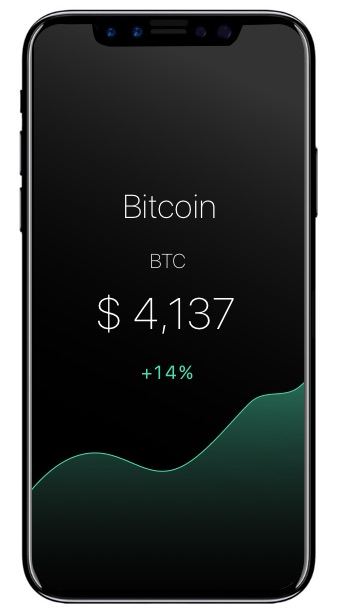
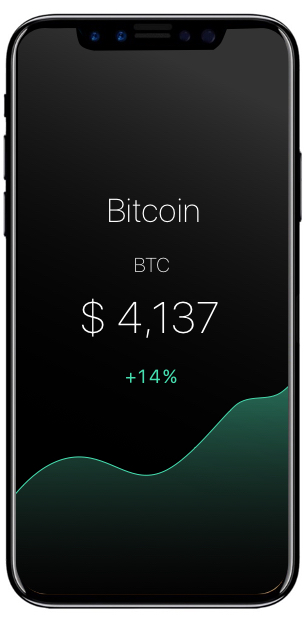
iPhone

diff --git a/robinhood copy.html b/robinhood copy.html
@@ -244,58 +244,33 @@ Cryptocurrency Price Tracker
 <div class="mtl"></div>
 
 
-      <a
-        class="fancybox lead header-link"
-        href="https://vimeo.com/87163777"
-        id="watch_video"
-        target="_blank"
-        rel="noreferrer">
-        <img
-          alt="Robinhood video play button"
-          id="play_button"
-          src="https://d2ue93q3u507c2.cloudfront.net/assets/marketing/images/home/play_button.png"
-          data-at2x="https://d2ue93q3u507c2.cloudfront.net/assets/marketing/images/home/play_button%402x.png"
-        >
-        Watch Video
-      </a>
-
-    </div>
 
     <div class="col-md-4 col-md-push-1">
       
       <img
         alt="Robinhood app"
         class="animation-placeholder downscale-fit mbs hidden"
-        src="https://d2ue93q3u507c2.cloudfront.net/assets/marketing/images/home/home_animation_placeholder.png"
-        data-at2x="https://d2ue93q3u507c2.cloudfront.net/assets/marketing/images/home/home_animation_placeholder%402x.png"
+        src="http://cryptonapp.tech/assets/iphone8.jpg"
+        data-at2x="http://cryptonapp.tech/assets/iphone8.jpg"
       >
       <div class="animation-container mbs">
         <div class="home-animation" id="home_animation_light">
           <img
             alt="iPhone frame"
             class="animation-frame"
-            src="https://d2ue93q3u507c2.cloudfront.net/assets/marketing/images/home/phone_frame_light.png"
-            data-at2x="https://d2ue93q3u507c2.cloudfront.net/assets/marketing/images/home/phone_frame_light%402x.png"
+            src="http://cryptonapp.tech/assets/iphone8.jpg"
+            data-at2x="http://cryptonapp.tech/assets/iphone8.jpg"
           >
-          <video autoplay="1" class="animation-video" id="home_animation_video_light" preload="1">
-            <source src="https://d2ue93q3u507c2.cloudfront.net/assets/marketing/video/home/home_animation_light.mp4">
-            <source src="https://d2ue93q3u507c2.cloudfront.net/assets/marketing/video/home/home_animation_light.webm">
-            <source src="https://d2ue93q3u507c2.cloudfront.net/assets/marketing/video/home/home_animation_light.ogv">
-          </video>
+
         </div>
-        <div class="home-animation" id="home_animation_dark">
+
           <img
             alt="iPhone frame"
             class="animation-frame"
-            src="https://d2ue93q3u507c2.cloudfront.net/assets/marketing/images/home/phone_frame_dark.png"
-            data-at2x="https://d2ue93q3u507c2.cloudfront.net/assets/marketing/images/home/phone_frame_dark%402x.png"
+            src="http://cryptonapp.tech/assets/iphone8.jpg"
+            data-at2x="http://cryptonapp.tech/assets/iphone8.jpg"
           >
-          <video class="animation-video" id="home_animation_video_dark" preload="1">
-            <source src="https://d2ue93q3u507c2.cloudfront.net/assets/marketing/video/home/home_animation_dark.mp4">
-            <source src="https://d2ue93q3u507c2.cloudfront.net/assets/marketing/video/home/home_animation_dark.webm">
-            <source src="https://d2ue93q3u507c2.cloudfront.net/assets/marketing/video/home/home_animation_dark.ogv">
-          </video>
-        </div>
+
       </div>
 
       <div class="mbs text-center">
@@ -525,77 +500,6 @@ Robinhood is only licensed to sell securities in the United States (US), to US c
 
 
 
-<div class="feature-block green-bg" id="about_team">
-  <div class="container text-center">
-    <div class="row">
-      <div class="col-md-10 col-md-offset-1 mtx">
-        <h2 class="feature-header mtx">
-          We're a team of digital natives with deep financial expertise, backed by some of the world's most notable investors.
-        </h2>
-        <a
-          class="btn btn-default btn-bordered mtx mbx"
-          href="/careers/"
-        >
-          Join our team
-        </a>
-
-        <div class="mtl mbx" id="investors">
-          <div class="investor-wrapper">
-            <img
-              alt="DST"
-              src="https://d2ue93q3u507c2.cloudfront.net/assets/marketing/images/home/investors/DST.png"
-              srcset="https://d2ue93q3u507c2.cloudfront.net/assets/marketing/images/home/investors/DST%402x.png 2x  "
-            >
-          </div>
-          <div class="investor-wrapper">
-            <img
-              alt="Index Ventures"
-              src="https://d2ue93q3u507c2.cloudfront.net/assets/marketing/images/home/investors/Index.png"
-              srcset="https://d2ue93q3u507c2.cloudfront.net/assets/marketing/images/home/investors/Index%402x.png 2x"
-            >
-          </div>
-          <div class="investor-wrapper">
-            <img
-              alt="Google Ventures"
-              src="https://d2ue93q3u507c2.cloudfront.net/assets/marketing/images/home/investors/GoogleVentures.png"
-              srcset="https://d2ue93q3u507c2.cloudfront.net/assets/marketing/images/home/investors/GoogleVentures%402x.png 2x"
-            >
-          </div>
-          <div class="investor-wrapper">
-            <img
-              alt="Thrive Capital"
-              src="https://d2ue93q3u507c2.cloudfront.net/assets/marketing/images/home/investors/ThriveCapital.png"
-              srcset="https://d2ue93q3u507c2.cloudfront.net/assets/marketing/images/home/investors/ThriveCapital%402x.png 2x"
-            >
-          </div>
-          <div class="investor-wrapper">
-            <img
-              alt="Andreessen Horowitz"
-              src="https://d2ue93q3u507c2.cloudfront.net/assets/marketing/images/home/investors/Andreessen.png"
-              srcset="https://d2ue93q3u507c2.cloudfront.net/assets/marketing/images/home/investors/Andreessen%402x.png 2x"
-            >
-          </div>
-          <div class="investor-wrapper">
-            <img
-              alt="NEA"
-              src="https://d2ue93q3u507c2.cloudfront.net/assets/marketing/images/home/investors/NEA.png"
-              srcset="https://d2ue93q3u507c2.cloudfront.net/assets/marketing/images/home/investors/NEA%402x.png 2x"
-            >
-          </div>
-          <div class="investor-wrapper">
-            <img
-              alt="Ribbit Capital"
-              src="https://d2ue93q3u507c2.cloudfront.net/assets/marketing/images/home/investors/RibbitCapital.png"
-              srcset="https://d2ue93q3u507c2.cloudfront.net/assets/marketing/images/home/investors/RibbitCapital%402x.png 2x"
-            >
-          </div>
-        </div>
-      </div>
-    </div>
-  </div>
-</div>
-
-
   </div>
 
   
@@ -613,26 +517,6 @@ Robinhood is only licensed to sell securities in the United States (US), to US c
       <div class="col-md-10 col-md-offset-1 ">
         <hr>
         <div class="footer-buttons clearfix">
-
-          <div class="region-options mtm mbm">
-            <a href="/?region=us">
-              <img
-                  alt="USA"
-                  src="https://d2ue93q3u507c2.cloudfront.net/assets/marketing/images/region/us.png"
-                  data-at2x="https://d2ue93q3u507c2.cloudfront.net/assets/marketing/images/region/us%402x.png"
-              >
-            </a>
-            <a href="/?region=au">
-              <img
-                  alt="Australia"
-                  src="https://d2ue93q3u507c2.cloudfront.net/assets/marketing/images/region/au.png"
-                  data-at2x="https://d2ue93q3u507c2.cloudfront.net/assets/marketing/images/region/au%402x.png"
-              >
-            </a>
-            <a href="/?region=global">
-              Global
-            </a>
-          </div>
 
           <div class="social-links mtm mbm">
             <a href="https://www.twitter.com/robinhoodapp" target="_blank" rel="noreferrer">
@@ -676,54 +560,6 @@ Robinhood is only licensed to sell securities in the United States (US), to US c
 
     <div class="row mts mbx">
       <div class="col-md-5 col-md-offset-1">
-        
-          
-
-Robinhood is only licensed to sell securities in the United States (US), to US citizens and residents, and will not permit anyone who is not a legal US resident to purchase or sell securities through its application until such time as it is approved to engage in the securities and investment business by the appropriate regulator(s) of a foreign jurisdiction. Robinhood is currently available to legal US residents over 18 years of age only. Robinhood is not providing financial advice or recommending securities through the use of its site and it is authorized to engage in the securities business solely in the US.
-<br><br>
-        
-        
-
-
-
-Free trading refers to $0 commissions for Robinhood Financial self-directed individual cash or margin brokerage accounts that trade U.S. listed securities via mobile devices. Relevant SEC &amp; FINRA fees may apply. Please see our <a href="https://d2ue93q3u507c2.cloudfront.net/assets/robinhood/legal/RHF%20Retail%20Commisions%20and%20Fees%20Schedule.pdf" target="_blank" rel="noreferrer"> Commission and Fee Schedule</a>.
-<br><br>
-        
-
-
-
-Robinhood is currently registered in the following <a href="https://d2ue93q3u507c2.cloudfront.net/assets/robinhood/legal/RHF%20Jurisdictions.pdf" target="_blank" rel="noreferrer">jurisdictions</a>. This is not an offer, solicitation of an offer, or advice to buy or sell securities, or open a brokerage account in any jurisdiction where Robinhood is not registered.
-<br><br>
-        
-
-All investments involve risk and the past performance of a security, or financial product does not guarantee future results or returns. Keep in mind that while diversification may help spread risk it does not assure a profit, or protect against loss, in a down market. There is always the potential of losing money when you invest in securities, or other financial products. Investors should consider their investment objectives and risks carefully before investing.
-<br><br>
-        
-
-Investors should be aware that system response, execution price, speed, liquidity, market data, and account access times are affected by many factors, including market volatility, size and type of order, market conditions, system performance, and other factors.
-<br><br>
-        
-
-
-
-
-Margin trading involves interest charges and risks, including the potential to lose more than deposited or the need to deposit additional collateral in a falling market. Before using margin, customers must determine whether this type of trading strategy is right for them given their specific investment objectives, experience, risk tolerance, and financial situation. For more information please see our <a href="https://d2ue93q3u507c2.cloudfront.net/assets/robinhood/legal/RHF%20Margin%20Account%20Disclosure.pdf" target="_blank" rel="noreferrer"> Margin Disclosure Statement,</a> <a href="https://d2ue93q3u507c2.cloudfront.net/assets/robinhood/legal/RHF%20Margin%20Agreement.pdf" target="_blank" rel="noreferrer"> Margin Agreement</a> and <a href="http://www.finra.org/Investors/SmartInvesting/AdvancedInvesting/MarginInformation/P005927" target="_blank" rel="noreferrer"> FINRA Investor Information</a>. These disclosures contain information on our lending policies, interest charges, and the risks associated with margin accounts.
-<br><br>
-        
-
-Investors should consider the investment objectives and unique risk profile of Exchange Traded Funds (ETFs) carefully before investing. ETFs are subject to risks similar to those of other diversified portfolios. Leveraged and Inverse ETFs may not be suitable for all investors and may increase exposure to volatility through the use of leverage, short sales of securities, derivatives and other complex investment strategies.
-<br>
-      </div>
-      <div class="col-md-5">
-        
-
-
-Although ETFs are designed to provide investment results that generally correspond to the performance of their respective underlying indices, they may not be able to exactly replicate the performance of the indices because of expenses and other factors. A prospectus contains this and other information about the ETF and should be read carefully before investing. Customers should obtain prospectuses from issuers and/or their third party agents who distribute and make prospectuses available for review.  ETFs are required to distribute portfolio gains to shareholders at year end. These gains may be generated by portfolio rebalancing or the need to meet diversification requirements. ETF trading will also generate tax consequences.  Additional regulatory guidance on Exchange Traded Products can be found by clicking <a href="http://www.sec.gov/investor/alerts/etfs.pdf" target="_blank" rel="noreferrer"> here</a>.
-<br><br>
-        
-
-Third party information provided for Robinhood product features, Robinhood communications and communications emanating from its social media community, market prices, data and other information available through Robinhood are meant for informational purposes only and are not intended as an offer or solicitation for the purchase or sale of any financial instrument or as an official confirmation of any transaction. The information provided is not warranted as to completeness or accuracy and is subject to change without notice. The Robinhood website provides its users links to social media sites and email. The linked social media and email messages are pre-populated. However, these messages can be deleted or edited by Robinhood users, who are under no obligation to send any pre-populated messages. Any comments or statements made herein do not reflect the views of Robinhood Markets Inc., Robinhood Financial, LLC or any of their subsidiaries or affiliates. Note that certain Robinhood product features listed are currently in development and will be available soon.
-<br><br>
         
 
 All securities and investments are offered to self-directed customers by Robinhood Financial, LLC, member <a href="http://finra.org" target="_blank" rel="noreferrer">FINRA</a> &amp; <a href="http://sipc.org" target="_blank" rel="noreferrer">SIPC</a>. Additional information about your broker can be found by clicking <a href="http://brokercheck.finra.org/" target="_blank" rel="noreferrer">here</a>. Robinhood Financial, LLC is a wholly owned subsidiary of Robinhood Markets, Inc.

diff --git a/index.html b/index.html
@@ -76,6 +76,34 @@
 
   <link rel="stylesheet" href="http://cryptonapp.tech/css/0eb84e2fd6b0.css" type="text/css" media="all" />
 
+      <div
+      class="collapse navbar-collapse"
+      id="navbar_static_fixed">
+      <ul class="nav navbar-nav navbar-right">
+        <li>
+          <a
+            
+            href="/careers/">
+            Careers
+          </a>
+        </li>
+        <li>
+        <a href="https://support.robinhood.com/hc/en-us" target="_blank" rel="noreferrer">
+            Help
+          </a>
+        </li>
+        <li>
+          <a href="http://blog.robinhood.com" target="_blank" rel="noreferrer">
+            Blog
+          </a>
+        </li>
+        
+          
+          
+        
+      </ul>
+    </div>
+
   </head>
 
   <body
@@ -128,8 +156,7 @@ Lean Cryptocurrency Tracker<br>
       
 <div class="mtl"></div>
 
-
-
+ 
 
     </div>
 
